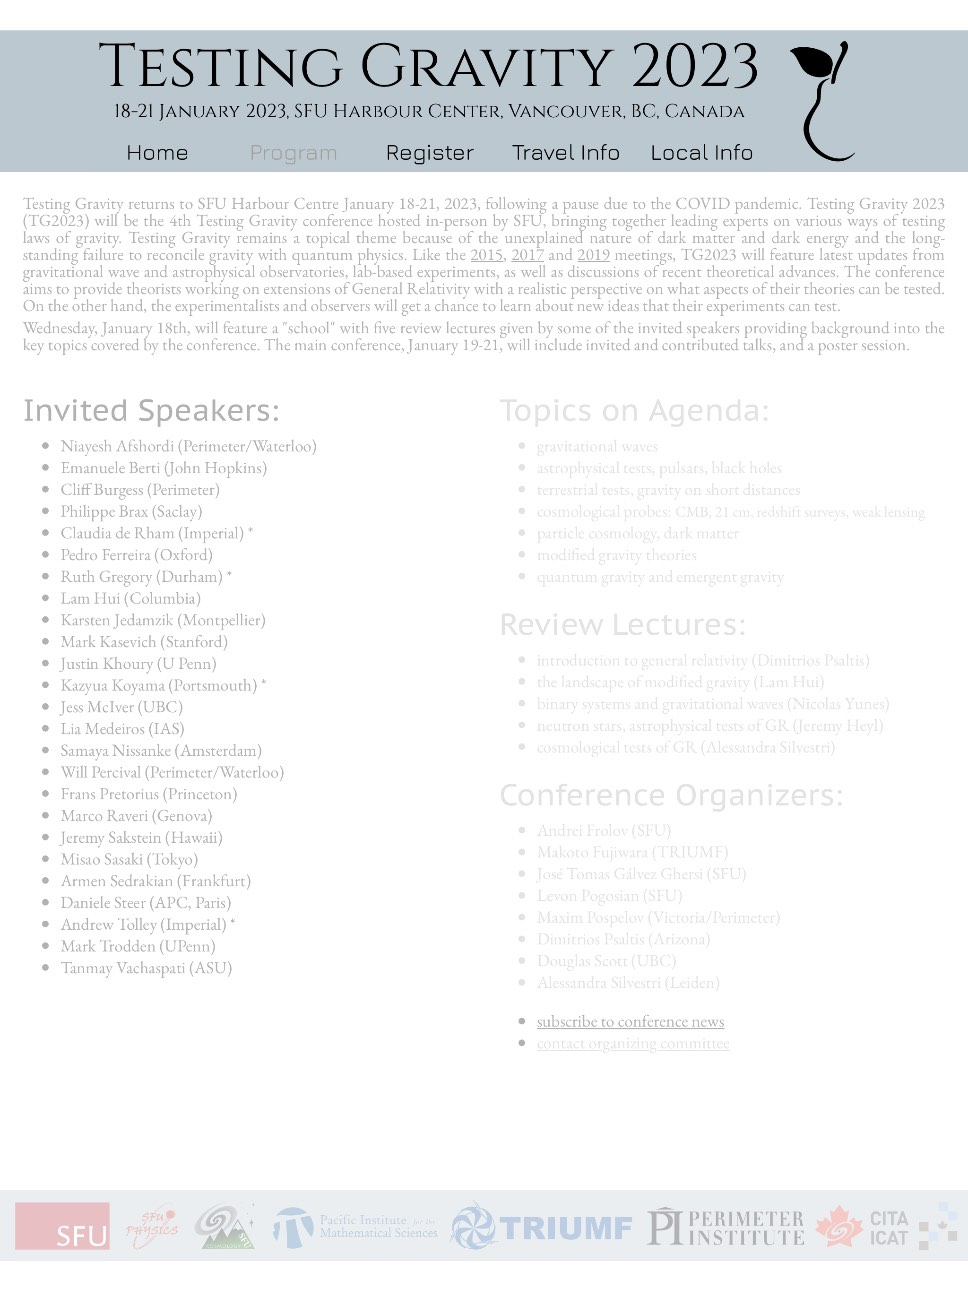
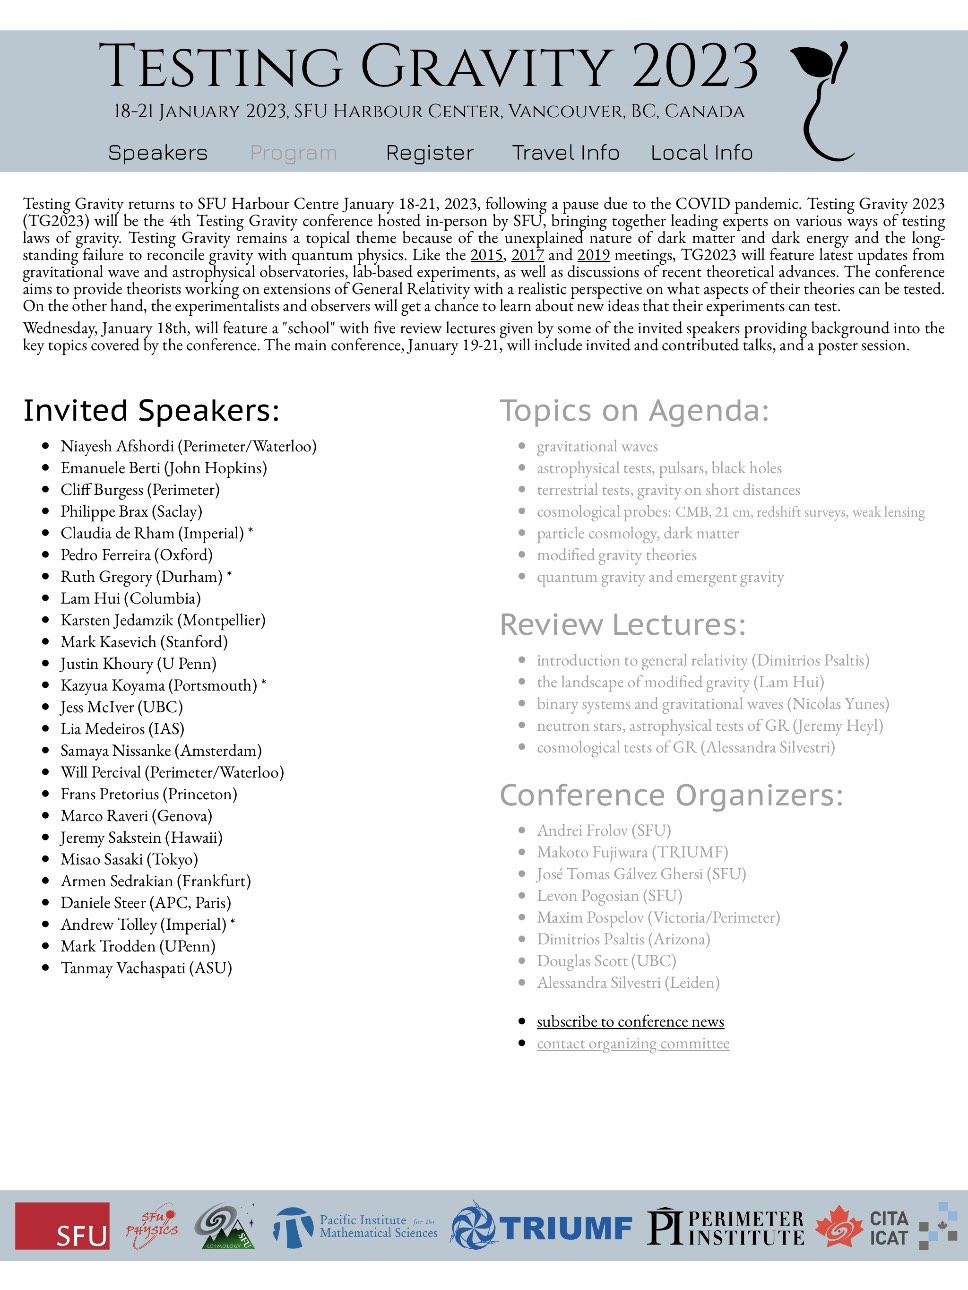
Local links checked and pruned.

diff --git a/content/local.html b/content/local.html
@@ -1,0 +1,74 @@
+<style type="text/css">
+<!--
+a:link, a:visited { color: #000000 }
+a:hover, a:active { color: #FF2600 }
+-->
+</style>
+
+<p align=center><font face="PT Sans Caption" size="6">download <a href="pdfs/directions.pdf">printed directions</a> or visit <a href="https://www.google.com/maps/d/viewer?mid=1nCp65U9k59g017vcoAaCXkeH4iK87tNG&ll=49.2833959021208%2C-123.12375658105464&z=14">interactive map</a></font>
+
+<p>
+<table>
+<tbody style="vertical-align: top;">
+<tr>
+
+<td style="width: 30%;">
+<font face="PT Sans Caption" size="6">Places to Eat:</font>
+<p><font face="EB Garamond" size="4"><ul>
+  <li><a target="_blank" href="http://www.steamworks.com">Steamworks</a>
+  <li><a target="_blank" href="http://www.bonchaz.ca">Bonchaz</a>
+  <li><a target="_blank" href="http://www.lataqueria.ca">La Taqueria</a>
+  <li><a target="_blank" href="http://nuba.ca">Nuba</a>
+  <li><a target="_blank" href="http://www.ebisu.ca/robson/">Ebisu on Robson</a>
+  <li><a target="_blank" href="http://www.bananaleaf-vancouver.com">Banana Leaf</a>
+  <li><a target="_blank" href="http://shizenya.ca">Shizen Ya</a>
+  <li><a target="_blank" href="http://www.cafecrepe.com">Cafe Crepe</a>
+  <li><a target="_blank" href="http://zefferellis.com">Zefferelli's</a>
+  <li><a target="_blank" href="http://www.thenaam.com">The Naam</a>
+  <li><a target="_blank" href="http://www.vijsrestaurant.ca">Vij's</a>
+</ul></font>
+</td>
+
+<td style="width: 30%;">
+<font face="PT Sans Caption" size="6">Things to Do:</font>
+<p><font face="EB Garamond" size="4"><ul>
+  <li><a target="_blank" href="http://www.vancouverlookout.com/">Harbour Centre Tower</a>
+  <li><a target="_blank" href="http://vancouver.ca/parks-recreation-culture/seawall.aspx">The Seawall</a>
+  <li><a target="_blank" href="http://vancouver.ca/parks-recreation-culture/stanley-park.aspx">Stanley Park</a>
+  <li><a target="_blank" href="http://granvilleisland.com/">Granville Island</a>
+  <li><a target="_blank" href="http://www.vanaqua.org/">Vancouver Aquarium</a>
+  <li><a target="_blank" href="http://moa.ubc.ca/">UBC Museum of Anthropology</a>
+  <li><a target="_blank" href="http://www.flyovercanada.com/">Fly Over Canada</a>
+  <li><a target="_blank" href="http://www.capbridge.com/">Capilano Suspension Bridge</a>
+  <li><a target="_blank" href="http://www.grousemountain.com/">Grouse Mountain Gondola</a>
+  <li><a target="_blank" href="http://www.whistlerblackcomb.com/">Visit Whistler</a>
+</ul></font>
+
+<p><font face="PT Sans Caption" size="6">Getting Around:</font>
+<p><font face="EB Garamond" size="4"><ul>
+  <li><a target="_blank" href="http://transitapp.com/">Transit App</a> for mobile devices
+  <li><a target="_blank" href="http://www.translink.ca/">TransLink</a> Vancouver website
+</ul></font>
+</td>
+
+<td style="width: 30%;">
+<font face="PT Sans Caption" size="6">Downhill Skiing:</font>
+<p><font face="EB Garamond" size="4"><ul>
+  <li><a target="_blank" href="http://www.cypressmountain.com">Cypress Mountain</a>
+  <li><a target="_blank" href="http://www.grousemountain.com">Grouse Mountain</a>
+  <li><a target="_blank" href="http://www.mountseymour.com">Mount Seymour</a>
+  <li><a target="_blank" href="http://www.whistlerblackcomb.com">Whistler Blackcomb</a>
+  <li><a target="_blank" href="http://www.mtbaker.us">Mt Baker Ski Area</a>
+</ul></font>
+
+<p><font face="PT Sans Caption" size="6">X-Country Skiing:</font>
+<p><font face="EB Garamond" size="4"><ul>
+  <li><a target="_blank" href="http://www.cypressmountain.com">Cypress Mountain</a>
+  <li><a target="_blank" href="http://www.callaghancountry.com">Callaghan Country</a>
+</ul></font>
+
+<p><font face="PT Sans Caption" size="6">Backcountry Skiing:</font>
+<p><font face="EB Garamond" size="4"><ul>
+  <li>check current <a target="_blank" href="http://www.avalanche.ca/">avalanche conditions</a>!
+</ul></font>
+</td>

diff --git a/content/organizers.html b/content/organizers.html
@@ -1,0 +1,56 @@
+<style type="text/css">
+<!--
+a:link, a:visited { color: #000000 }
+a:hover, a:active { color: #FF2600 }
+ul { margin-top: 0.3em !important; }
+-->
+</style>
+
+<font face="PT Sans Caption" size="6">Topics on Agenda:
+</font>
+<font face="EB Garamond" size="4"><ul>
+<li>gravitational waves
+<li>astrophysical tests, pulsars, black holes
+<li>terrestrial tests, gravity on short distances
+<li>cosmological probes: <font size="3">CMB, 21 cm, redshift surveys, weak lensing</font>
+<li>particle cosmology, dark matter
+<li>modified gravity theories
+<li>quantum gravity and emergent gravity
+</ul></font>
+
+<font face="PT Sans Caption" size="6">Review Lectures:
+</font>
+<font face="EB Garamond" size="4"><ul>
+<li>introduction to general relativity (Dimitrios Psaltis)
+<li>the landscape of modified gravity (Lam Hui)
+<li>binary systems and gravitational waves (Nicolas Yunes)
+<li>neutron stars, astrophysical tests of GR (Jeremy Heyl)
+<li>cosmological tests of GR (Alessandra Silvestri)
+</ul></font>
+
+<!--
+<font face="PT Sans Caption" size="6">Conference Program:
+</font>
+<font face="EB Garamond" size="4"><ul>
+<li>download full <a href="pdfs/program.pdf">conference program</a>
+<li>download <a href="pdfs/directions.pdf">directions and local info</a>
+</ul></font>
+-->
+
+<font face="PT Sans Caption" size="6">Conference Organizers:
+</font>
+<font face="EB Garamond" size="4"><ul>
+<li>Andrei Frolov (SFU)
+<li>Makoto Fujiwara (TRIUMF)
+<li>José Tomas Gálvez Ghersi (SFU)
+<li>Levon Pogosian (SFU)
+<li>Maxim Pospelov (Victoria/Perimeter)
+<li>Dimitrios Psaltis (Arizona)
+<li>Douglas Scott (UBC)
+<li>Alessandra Silvestri (Leiden)
+</ul></font>
+
+<font face="EB Garamond" size="4"><ul>
+<li><a href="mailto:testing-gravity-2023-announce-request@sfu.ca?&subject=Subscribe&body=To receive notifications about registration deadlines and other updates, subscribe to the conference mailing list by sending an email to testing-gravity-2023-announce-request@sfu.ca with %22subscribe%22 in the subject line.">subscribe to conference news</a>
+<li><a href="mailto:testing-gravity@sfu.ca">contact organizing committee</a>
+</ul></font>
